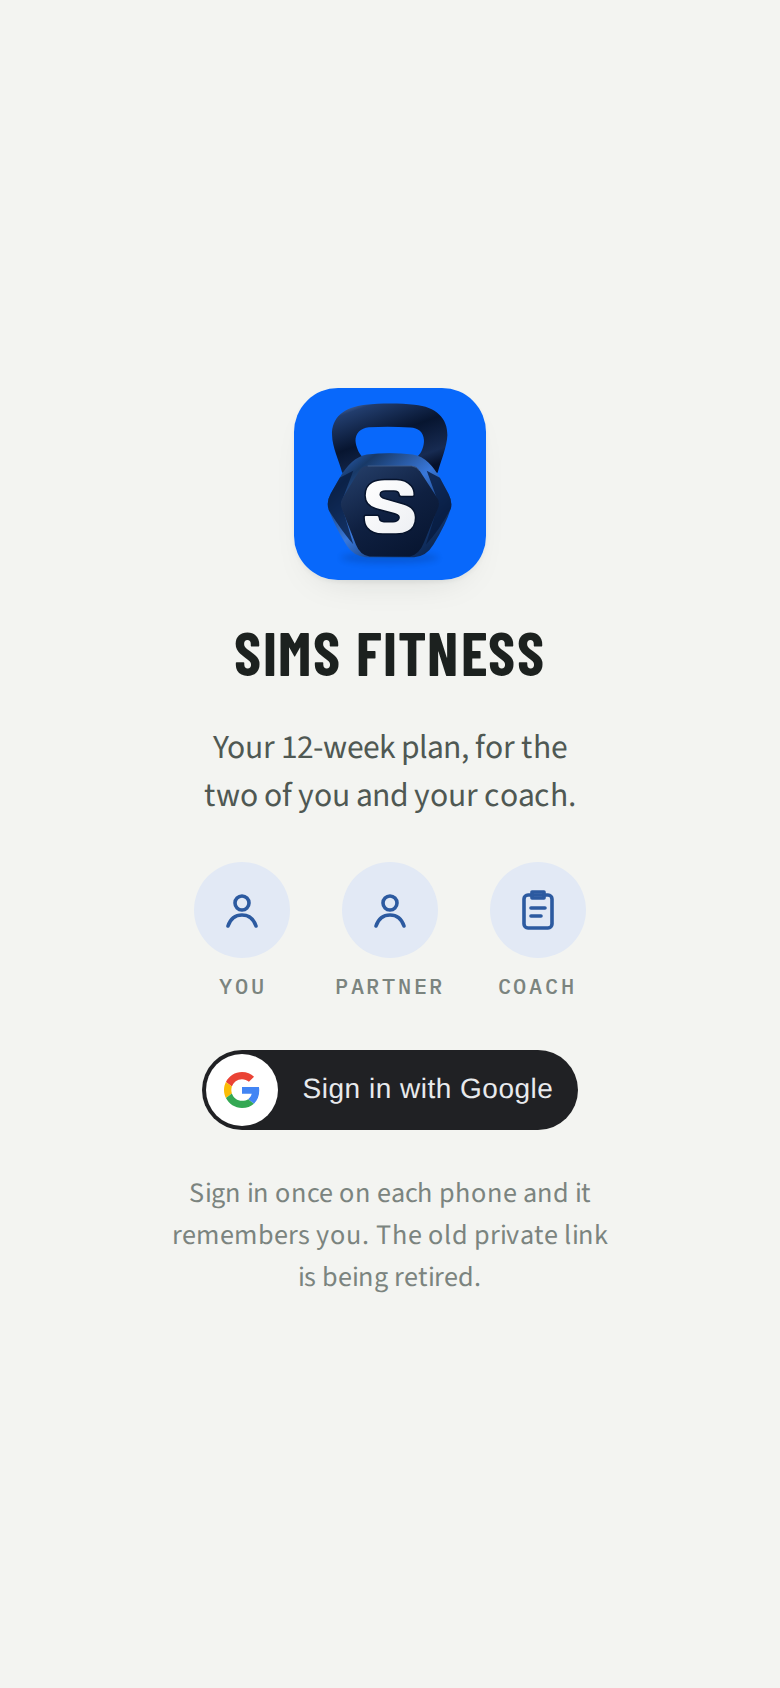
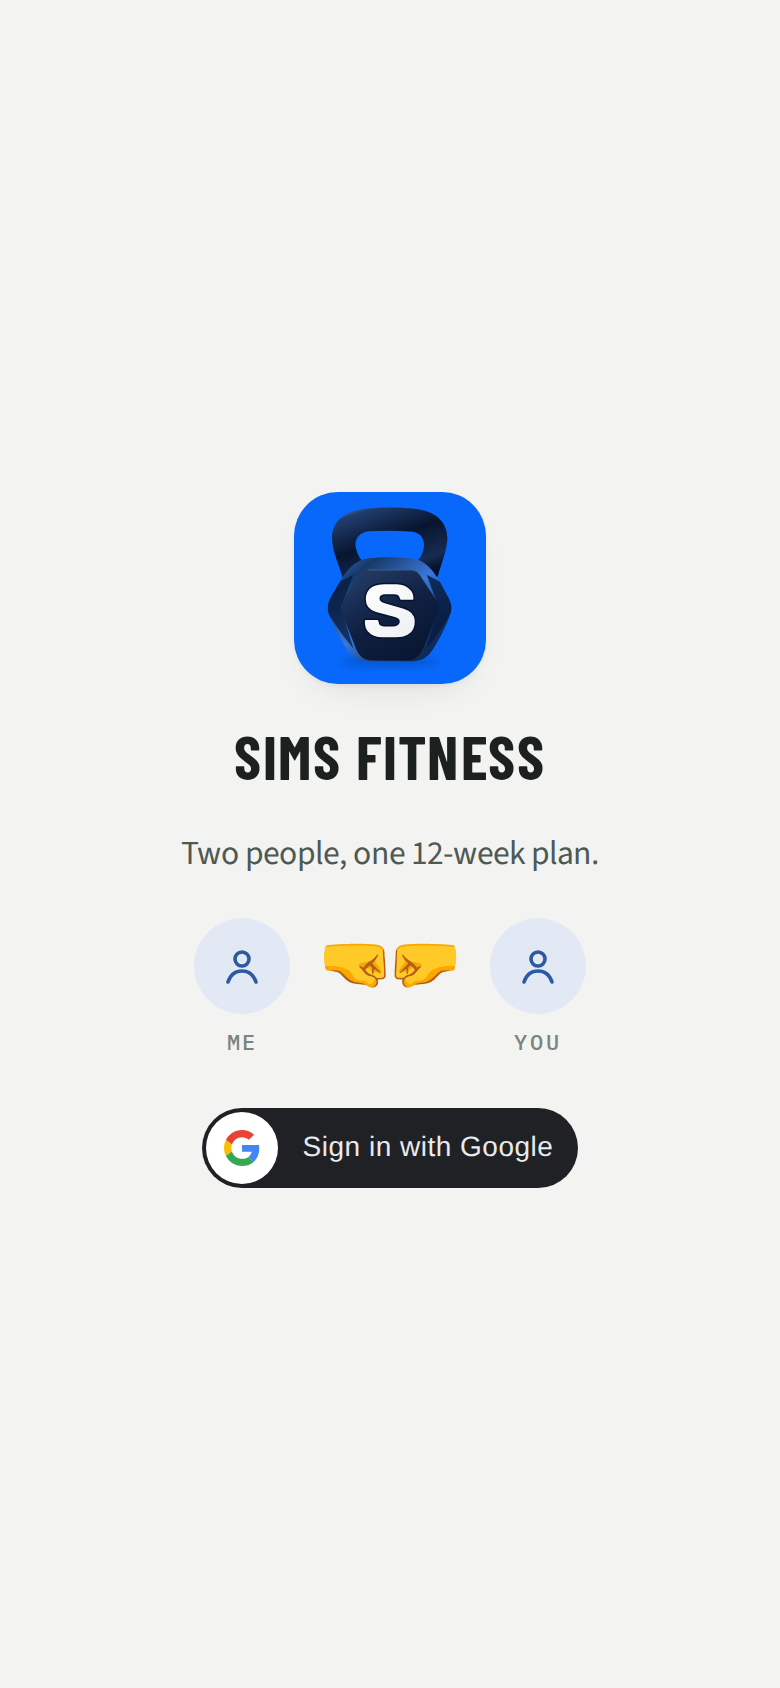
design: sign-in is about the two of you, with a fist bump (shipped to next)
Claude-Session: https://claude.ai/code/session_01UAdhSRHNgeKhWJ7rFx1a8R

Changed region(s): [[0.2154, 0.2156, 0.7692, 0.7701]]

diff --git a/design/next-build/patch-signin-2.py b/design/next-build/patch-signin-2.py
@@ -1,0 +1,47 @@
+import hashlib, json
+src = open('app-next.base5.js', encoding='utf-8').read()
+s = src
+PAIRS = []
+def rep(old, new):
+    global s
+    assert s.count(old) == 1, (s.count(old), old[:70])
+    PAIRS.append((old, new)); s = s.replace(old, new)
+a = s.index("'<p class=\"login-line\">")
+b = s.index("The old private link is being retired.</p></div>';", a) + len("The old private link is being retired.</p></div>';")
+old = s[a:b]
+PERSON = '<svg viewBox="0 0 24 24" fill="none" stroke="currentColor" stroke-width="1.8" stroke-linecap="round" aria-hidden="true"><circle cx="12" cy="8.5" r="3.5"/><path d="M5 20c1.2-3.6 3.8-5.5 7-5.5s5.8 1.9 7 5.5"/></svg>'
+new = ("'<p class=\"login-line\">Two people, one 12-week plan.</p>' +\n"
+ "'<ul class=\"cast\" aria-label=\"Me and you\"><li class=\"cast-chip\"><span class=\"cast-ico\">" + PERSON + "</span><span>Me</span></li>" +
+ "<li class=\"cast-bump\"><button type=\"button\" class=\"bump\" aria-label=\"Fist bump\"><span class=\"fist fist-l\" aria-hidden=\"true\">\U0001F91C</span><span class=\"fist fist-r\" aria-hidden=\"true\">\U0001F91B</span></button></li>" +
+ "<li class=\"cast-chip\"><span class=\"cast-ico\">" + PERSON + "</span><span>You</span></li></ul>' +\n"
+ "'<div id=\"gsiBtn\" class=\"gsi-slot\"></div><p class=\"fine\" id=\"loginMsg\" role=\"status\"></p></div>';")
+rep(old, new)
+rep('<p class="fine">The private link is being retired. Sign in once on this phone to keep access.</p>', '')
+CSS = """
+.cast{align-items:center;gap:10px}
+.cast-bump{padding-bottom:22px}
+.bump{position:relative;background:none;border:0;padding:8px 6px;margin:0;font-size:1.9rem;line-height:1;cursor:pointer;display:inline-flex;align-items:center;-webkit-tap-highlight-color:transparent;touch-action:manipulation}
+.fist{display:inline-block;will-change:transform}
+.fist-l{margin-right:-0.12em}
+.bump::after{content:"\\2764\\FE0F";position:absolute;left:50%;top:0;font-size:1.1rem;line-height:1;margin-left:-0.5em;opacity:0;pointer-events:none}
+@keyframes sfBumpL{0%{transform:none}40%{transform:translateX(-14px) rotate(-10deg)}62%{transform:translateX(4px)}78%{transform:translateX(-1px)}100%{transform:none}}
+@keyframes sfBumpR{0%{transform:none}40%{transform:translateX(14px) rotate(10deg)}62%{transform:translateX(-4px)}78%{transform:translateX(1px)}100%{transform:none}}
+@keyframes sfHeart{0%,45%{opacity:0;transform:translateY(6px) scale(0.3)}58%{opacity:1;transform:translateY(-6px) scale(1.25)}70%{transform:translateY(-12px) scale(1)}100%{opacity:0;transform:translateY(-38px) scale(0.9)}}
+.bump.go .fist-l{animation:sfBumpL 0.55s cubic-bezier(.3,.7,.3,1)}
+.bump.go .fist-r{animation:sfBumpR 0.55s cubic-bezier(.3,.7,.3,1)}
+.bump.go::after{animation:sfHeart 1.1s ease-out}
+@media (prefers-reduced-motion: reduce){.bump.go .fist,.bump.go::after{animation:none}}
+"""
+JS = """
+(function () {
+function bump(el) { el.classList.remove('go'); void el.offsetWidth; el.classList.add('go'); try { if (navigator.vibrate) navigator.vibrate(12); } catch (e) {} }
+document.addEventListener('click', function (ev) { var b = ev.target.closest && ev.target.closest('.bump'); if (b) bump(b); });
+document.addEventListener('pointerover', function (ev) { if (ev.pointerType !== 'mouse') return; var b = ev.target.closest && ev.target.closest('.bump'); if (b && !(ev.relatedTarget && b.contains(ev.relatedTarget))) bump(b); });
+document.addEventListener('animationend', function (ev) { if (ev.animationName === 'sfHeart') { var b = ev.target.closest('.bump'); if (b) b.classList.remove('go'); } });
+})();
+"""
+APPEND = JS + "\n;(function () { var st = document.createElement('style'); st.id = 'sf-next-signin2'; st.textContent = " + repr(CSS) + "; document.head.appendChild(st); })();\n"
+s += APPEND
+open('app-next.js', 'w', encoding='utf-8').write(s)
+json.dump({'pairs': PAIRS, 'append': APPEND, 'src_md5': hashlib.md5(src.encode()).hexdigest(), 'dst_md5': hashlib.md5(s.encode()).hexdigest()}, open('edit5.json', 'w'), ensure_ascii=False)
+print(hashlib.md5(src.encode()).hexdigest(), hashlib.md5(s.encode()).hexdigest())

diff --git a/design/next-build/README.md b/design/next-build/README.md
@@ -48,3 +48,13 @@ Not done. Promote only after checking it on both phones. Rebase on the current `
 - Auto sign-in: the app already set Google's `auto_select`, but never called `google.accounts.id.prompt()`, so the "Continue as" prompt never showed. It now does, on the sign-in screen only.
 - Not added: the blurred week preview from the research. There's no real data before sign-in, so it would be decoration.
 - `patch-signin.py`, guarded from md5 `e9df479b...` to `68ed556e...`. Screenshots: `design/current/signin-preview-*.png`.
+
+## Sign-in, second pass (shipped to the preview 2026-09-26 18:28 UTC)
+
+Nick's direction: it's about two people working out in tandem, not the coach, and the screen doesn't need to explain sign-in.
+
+- Line: "Two people, one 12-week plan."
+- Chips: Me and You, with a fist bump between them. No coach chip.
+- Removed the fine print about signing in once and the old private link, here and in the sign-in nudge on the Week tab.
+- The fist bump is a button: tap it (or hover with a mouse) and the fists pull back, bump, and a heart pops up and floats away. Off when the phone asks for reduced motion.
+- `patch-signin-2.py`, guarded from md5 `68ed556e...` to `772263e1...`.
